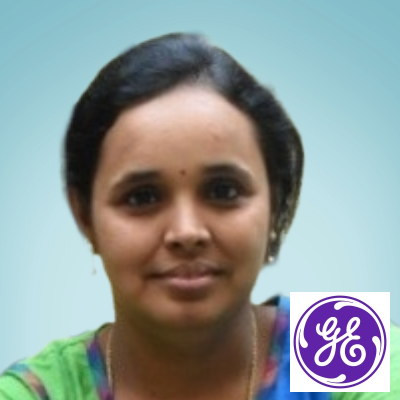
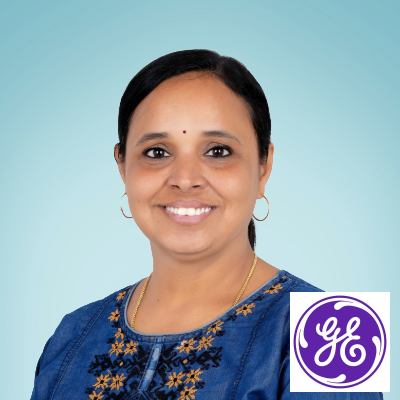
Fix: Renamed Sivani image and updated path to resolve visibility issue

diff --git a/src/app/bangalore-2026/bangalore-speakers-list.tsx b/src/app/bangalore-2026/bangalore-speakers-list.tsx
@@ -31,7 +31,7 @@ const speakers: any[] = [
     {
         name: "Sivani Peesapati",
         title: "Director, Cyber Security, GE HealthCare",
-        image: "/bangalore-2026/speakers-images/Sivani_Peesapati.png",
+        image: "/bangalore-2026/speakers-images/Sivani-Peesapati.png",
         bio: `A dedicated and experienced Manager in Cybersecurity, committed to safeguarding digital assets and protecting organizations from cyber threats. Skilled in developing and implementing robust security strategies, and compliance initiatives . Adept at leading teams and fostering a culture of cyber resilience. Passionate about staying at the forefront of the ever-evolving cybersecurity landscape to ensure the highest level of protection for businesses and end customers.`
     },
     {
